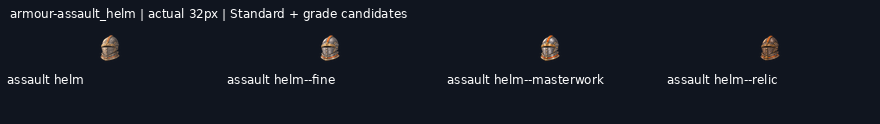
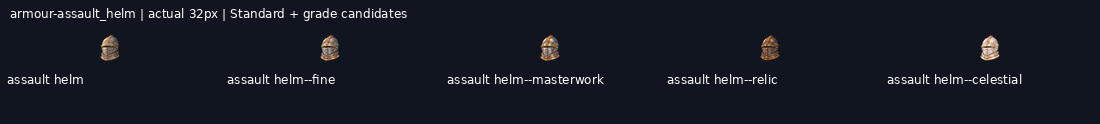
art: draw armour-assault_helm--celestial grade candidate

diff --git a/art/_archive/gear/2026-11-19-kept-blade-grades/HANDOFF.md b/art/_archive/gear/2026-11-19-kept-blade-grades/HANDOFF.md
@@ -1,6 +1,6 @@
 # Gear grade candidates
 
-**124/208 grade candidates delivered** on `art/2026-11-19-kept-blade-grades`. Shared mailbox: https://github.com/leonpentastorm/Project-Heaven-Cry/issues/3 . See claim.json for this lane’s current Standards. Released overlapping blades reuse12 peer candidates, with3 local alternatives archived.
+**125/208 grade candidates delivered** on `art/2026-11-19-kept-blade-grades`. Shared mailbox: https://github.com/leonpentastorm/Project-Heaven-Cry/issues/3 . See claim.json for this lane’s current Standards. Released overlapping blades reuse12 peer candidates, with3 local alternatives archived.
 
 Leon requested continuous candidate production; proof approval is not fabricated. All candidates remain review-candidate, production_approved:false, implementation_ready:false, with outline.review_required:true. Exact outline is measured, never asserted unless the masks match. Per-image registration is uniform scaling/translation only, without warp, silhouette masks, filled pixels or code-drawn substitutes. The generated native remains untouched.
 
@@ -10,12 +10,12 @@ Tomorrow: fetch this branch and develop safely, read the latest issue 3 comments
 
 Peer audit: [coordination/peer-audit-2026-11-19.md](coordination/peer-audit-2026-11-19.md). Peer58 masters/232 exports and12 canonical imports are integrated with versioned alpha<8 cleanup; originals are retained. See coordination/peer-import-v2/manifest.json and post-catalog VALIDATION.json (strict margins pass, solid alpha unchanged). Peer quota resets20 November2026 at09:45:39 Bangkok time; this does not establish this session’s quota.
 
-Remaining: weapon-ork_machete--masterwork, weapon-ork_machete--relic, weapon-ork_machete--celestial, weapon-war_axe--fine, weapon-war_axe--masterwork, weapon-war_axe--relic, weapon-war_axe--celestial, weapon-parlour_pistol--fine, weapon-parlour_pistol--masterwork, weapon-parlour_pistol--relic, weapon-parlour_pistol--celestial, weapon-lever_carbine--fine, weapon-lever_carbine--masterwork, weapon-lever_carbine--relic, weapon-lever_carbine--celestial, weapon-sawn_off--fine, weapon-sawn_off--masterwork, weapon-sawn_off--relic, weapon-sawn_off--celestial, weapon-coach_gun--fine, weapon-coach_gun--masterwork, weapon-coach_gun--relic, weapon-coach_gun--celestial, weapon-legion_bullpup--fine, weapon-legion_bullpup--masterwork, weapon-legion_bullpup--relic, weapon-legion_bullpup--celestial, weapon-whisper_smg--fine, weapon-whisper_smg--masterwork, weapon-whisper_smg--relic, weapon-whisper_smg--celestial, armour-assault_helm--celestial, armour-cowl--fine, armour-cowl--masterwork, armour-cowl--relic, armour-cowl--celestial, armour-hood--fine, armour-hood--masterwork, armour-hood--relic, armour-hood--celestial, armour-blackout_hood--fine, armour-blackout_hood--masterwork, armour-blackout_hood--relic, armour-blackout_hood--celestial, armour-spotters_monocle--fine, armour-spotters_monocle--masterwork, armour-spotters_monocle--relic, armour-spotters_monocle--celestial, armour-sight_visor--fine, armour-sight_visor--masterwork, armour-sight_visor--relic, armour-sight_visor--celestial, armour-breather--fine, armour-breather--masterwork, armour-breather--relic, armour-breather--celestial, armour-sealed_visor--fine, armour-sealed_visor--masterwork, armour-sealed_visor--relic, armour-sealed_visor--celestial, armour-breacher_plate--fine, armour-breacher_plate--masterwork, armour-breacher_plate--relic, armour-breacher_plate--celestial, armour-mesh_undersuit--fine, armour-mesh_undersuit--masterwork, armour-mesh_undersuit--relic, armour-mesh_undersuit--celestial, armour-rig_belt--fine, armour-rig_belt--masterwork, armour-rig_belt--relic, armour-rig_belt--celestial, armour-field_trousers--fine, armour-field_trousers--masterwork, armour-field_trousers--relic, armour-field_trousers--celestial, armour-tactical_gloves--fine, armour-tactical_gloves--masterwork, armour-tactical_gloves--relic, armour-tactical_gloves--celestial, armour-jump_boots--fine, armour-jump_boots--masterwork, armour-jump_boots--relic, armour-jump_boots--celestial.
+Remaining: weapon-ork_machete--masterwork, weapon-ork_machete--relic, weapon-ork_machete--celestial, weapon-war_axe--fine, weapon-war_axe--masterwork, weapon-war_axe--relic, weapon-war_axe--celestial, weapon-parlour_pistol--fine, weapon-parlour_pistol--masterwork, weapon-parlour_pistol--relic, weapon-parlour_pistol--celestial, weapon-lever_carbine--fine, weapon-lever_carbine--masterwork, weapon-lever_carbine--relic, weapon-lever_carbine--celestial, weapon-sawn_off--fine, weapon-sawn_off--masterwork, weapon-sawn_off--relic, weapon-sawn_off--celestial, weapon-coach_gun--fine, weapon-coach_gun--masterwork, weapon-coach_gun--relic, weapon-coach_gun--celestial, weapon-legion_bullpup--fine, weapon-legion_bullpup--masterwork, weapon-legion_bullpup--relic, weapon-legion_bullpup--celestial, weapon-whisper_smg--fine, weapon-whisper_smg--masterwork, weapon-whisper_smg--relic, weapon-whisper_smg--celestial, armour-cowl--fine, armour-cowl--masterwork, armour-cowl--relic, armour-cowl--celestial, armour-hood--fine, armour-hood--masterwork, armour-hood--relic, armour-hood--celestial, armour-blackout_hood--fine, armour-blackout_hood--masterwork, armour-blackout_hood--relic, armour-blackout_hood--celestial, armour-spotters_monocle--fine, armour-spotters_monocle--masterwork, armour-spotters_monocle--relic, armour-spotters_monocle--celestial, armour-sight_visor--fine, armour-sight_visor--masterwork, armour-sight_visor--relic, armour-sight_visor--celestial, armour-breather--fine, armour-breather--masterwork, armour-breather--relic, armour-breather--celestial, armour-sealed_visor--fine, armour-sealed_visor--masterwork, armour-sealed_visor--relic, armour-sealed_visor--celestial, armour-breacher_plate--fine, armour-breacher_plate--masterwork, armour-breacher_plate--relic, armour-breacher_plate--celestial, armour-mesh_undersuit--fine, armour-mesh_undersuit--masterwork, armour-mesh_undersuit--relic, armour-mesh_undersuit--celestial, armour-rig_belt--fine, armour-rig_belt--masterwork, armour-rig_belt--relic, armour-rig_belt--celestial, armour-field_trousers--fine, armour-field_trousers--masterwork, armour-field_trousers--relic, armour-field_trousers--celestial, armour-tactical_gloves--fine, armour-tactical_gloves--masterwork, armour-tactical_gloves--relic, armour-tactical_gloves--celestial, armour-jump_boots--fine, armour-jump_boots--masterwork, armour-jump_boots--relic, armour-jump_boots--celestial.
 
 Service-rejected requests (do not repeatedly resubmit): weapon-coach_gun--fine, weapon-legion_bullpup--fine, weapon-lever_carbine--fine, weapon-ork_machete--masterwork, weapon-parlour_pistol--fine, weapon-sawn_off--fine, weapon-war_axe--fine, weapon-whisper_smg--fine.
 
 Waiting on rejected prerequisites: weapon-coach_gun--celestial, weapon-coach_gun--masterwork, weapon-coach_gun--relic, weapon-legion_bullpup--celestial, weapon-legion_bullpup--masterwork, weapon-legion_bullpup--relic, weapon-lever_carbine--celestial, weapon-lever_carbine--masterwork, weapon-lever_carbine--relic, weapon-ork_machete--celestial, weapon-ork_machete--relic, weapon-parlour_pistol--celestial, weapon-parlour_pistol--masterwork, weapon-parlour_pistol--relic, weapon-sawn_off--celestial, weapon-sawn_off--masterwork, weapon-sawn_off--relic, weapon-war_axe--celestial, weapon-war_axe--masterwork, weapon-war_axe--relic, weapon-whisper_smg--celestial, weapon-whisper_smg--masterwork, weapon-whisper_smg--relic.
 
-Ready independent next steps, in queue order: armour-assault_helm--celestial, armour-cowl--fine, armour-hood--fine, armour-blackout_hood--fine, armour-spotters_monocle--fine, armour-sight_visor--fine, armour-breather--fine, armour-sealed_visor--fine, armour-breacher_plate--fine, armour-mesh_undersuit--fine, armour-rig_belt--fine, armour-field_trousers--fine, armour-tactical_gloves--fine, armour-jump_boots--fine. Other pending grades follow their preceding grade.
+Ready independent next steps, in queue order: armour-cowl--fine, armour-hood--fine, armour-blackout_hood--fine, armour-spotters_monocle--fine, armour-sight_visor--fine, armour-breather--fine, armour-sealed_visor--fine, armour-breacher_plate--fine, armour-mesh_undersuit--fine, armour-rig_belt--fine, armour-field_trousers--fine, armour-tactical_gloves--fine, armour-jump_boots--fine. Other pending grades follow their preceding grade.
 
 Runtime handoff: implementation_ready:false records review status but does not gate the web asset builder. The builder emits grade asset keys; the current UI gear resolver still needs grade-aware selection. Do not claim that runtime grade selection is implemented by these art deliveries.
